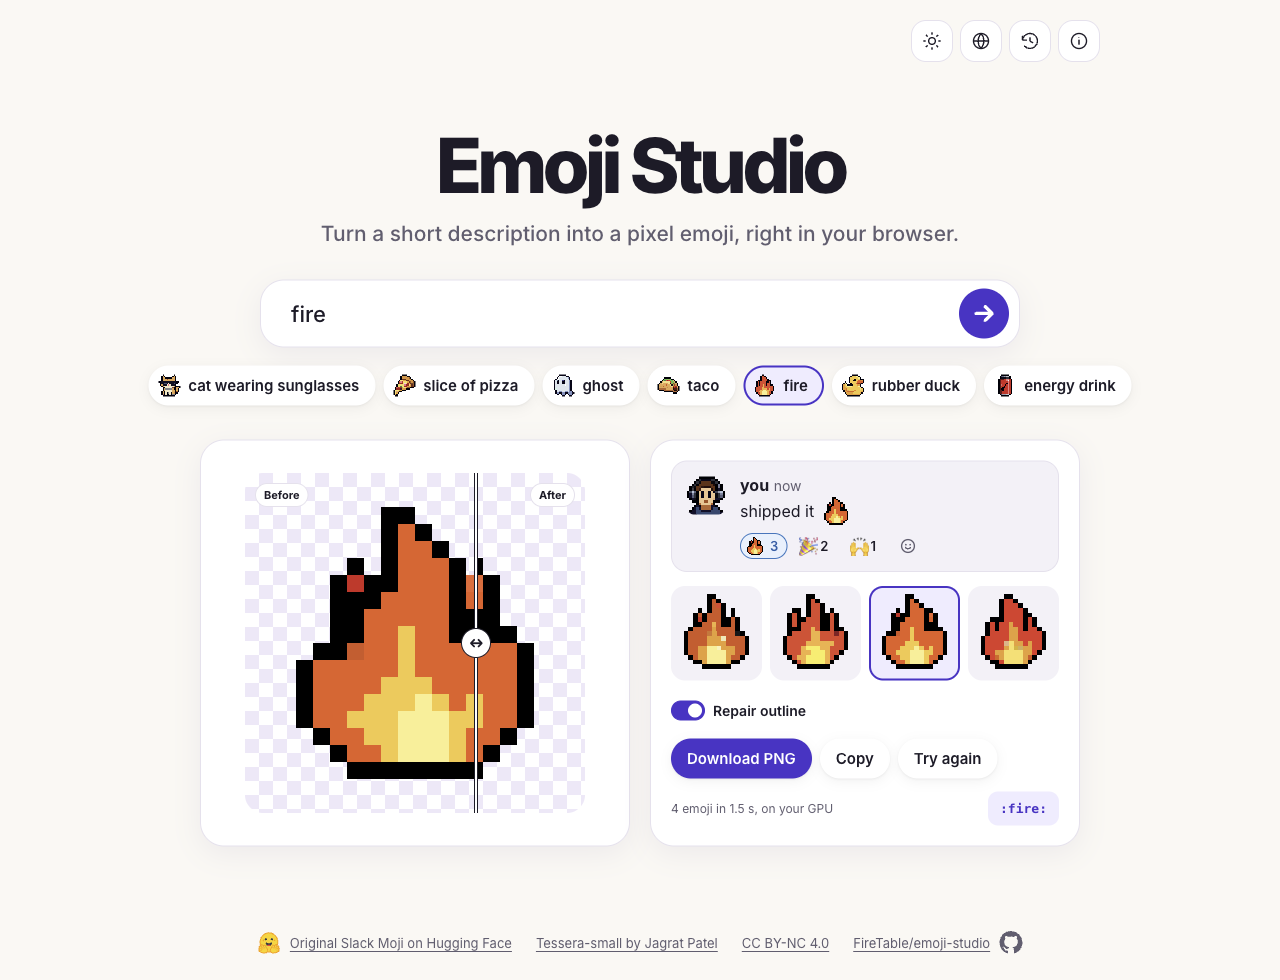
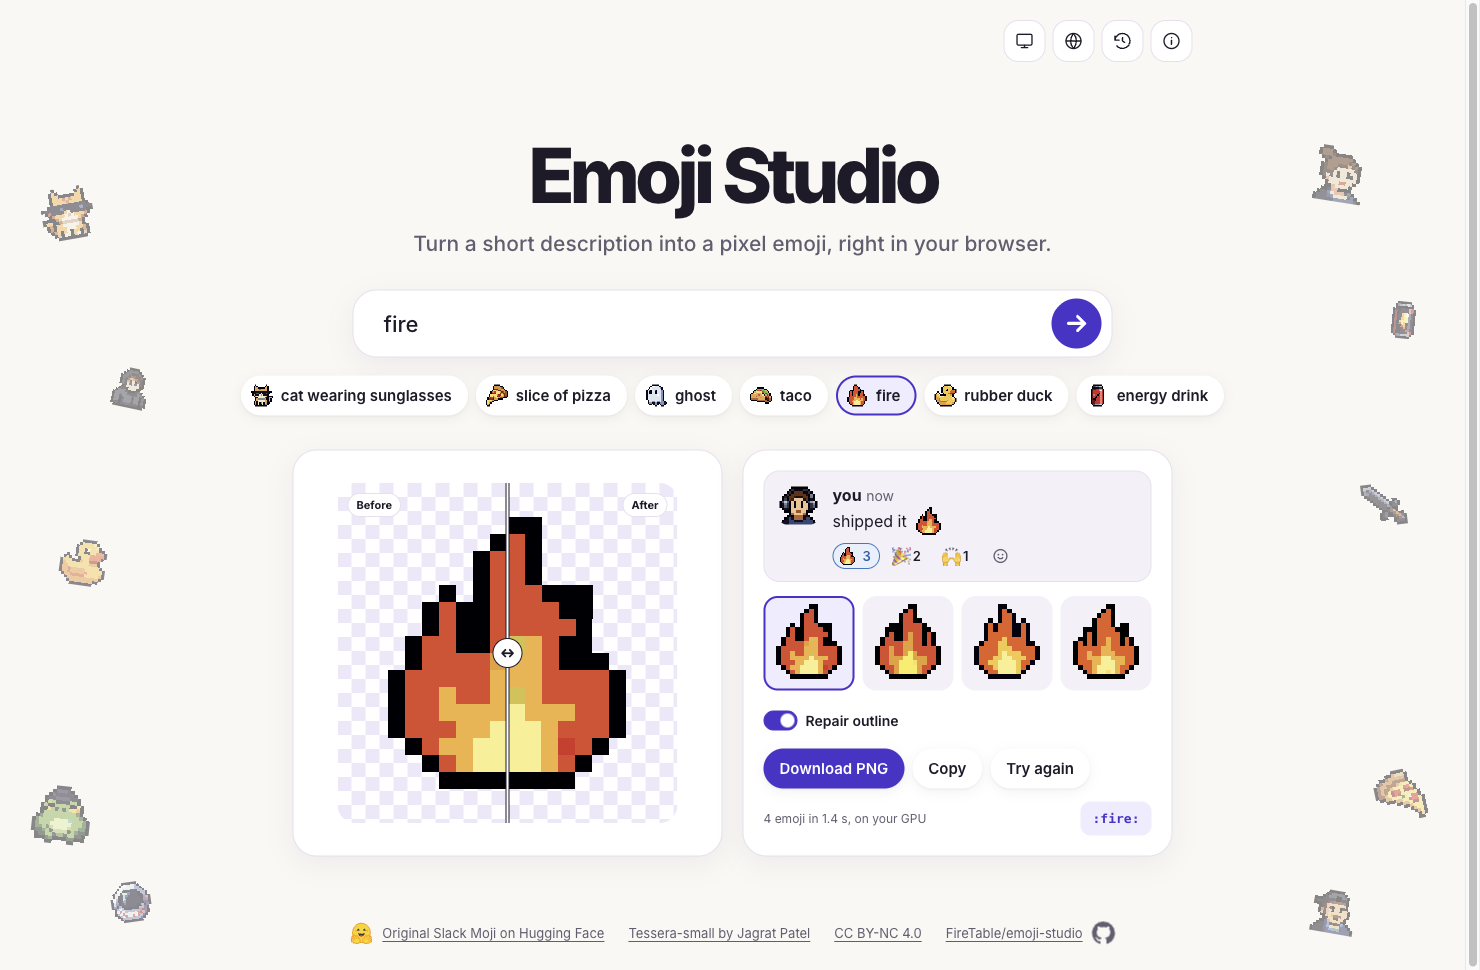
feat: improve studio overlays and crawler discovery

diff --git a/src/lib/i18n.ts b/src/lib/i18n.ts
@@ -67,13 +67,32 @@ export const LOCALES = {
     },
     aboutChanges: {
       title: "What Emoji Studio adds",
-      workflow: "Turn on outline repair to fill small gaps around the edge. Drag the preview slider to compare the original and repaired image. Use the history drawer to revisit, copy, or download earlier results.",
-      site: "FireTable redesigned the workspace, added light and dark appearances and English and Simplified Chinese, and moved the site and model downloads to Cloudflare.",
+      items: [
+        {
+          title: "Split model downloads",
+          detail: "We split the original Tessera-small and CLIP ONNX files into eight parts, each at most 16 MiB. The browser can fetch up to four parts at once from the CDN, reassemble the two models in memory, and reuse the cached parts on later visits. The first visit still downloads about 115 MB of weights.",
+        },
+        {
+          title: "Outline repair with a comparison slider",
+          detail: "Fill small gaps along the transparent outer edge while preserving the original pixels and enclosed transparent areas. Drag the slider to compare both versions. Copying or exporting uses the version selected by the repair switch.",
+        },
+        {
+          title: "Local generation history",
+          detail: "IndexedDB stores the prompt, time, and generated variants in this browser. Open the history drawer to preview an earlier result, switch variants, copy an image, or download a PNG while keeping your current work in place.",
+        },
+        {
+          title: "Workspace, appearance, and language",
+          detail: "The preview and editing controls sit side by side on desktop and stack on mobile. Choose English or Simplified Chinese and a light, dark, or system appearance.",
+        },
+        {
+          title: "Cloudflare hosting and startup recovery",
+          detail: "Cloudflare Pages serves the app, and the CDN serves the model files. After an interrupted startup, the next load in the same tab tries one part at a time and runs the model on the CPU to ease memory pressure.",
+        },
+      ],
     },
     aboutLocal: {
       title: "How generation runs on your device",
       device: "The browser runs Tessera-small and the CLIP text encoder on your GPU using WebGPU, with a WebAssembly CPU fallback. Your prompts, images, and IndexedDB history stay in this browser.",
-      cache: "The first visit downloads about 115 MB of model weights in parallel. Your browser reuses the cached files while they remain available.",
     },
     original: "Original Slack Moji on Hugging Face",
     model: "Tessera-small by Jagrat Patel",
@@ -145,13 +164,32 @@ export const LOCALES = {
     },
     aboutChanges: {
       title: "Emoji Studio 增加了什么",
-      workflow: "开启描边修复可以补上外轮廓的小缺口，拖动滑块就能比较修复前后。历史抽屉可以打开之前的结果，直接预览、复制或下载。",
-      site: "FireTable 重新设计了工作区，加入明暗模式和中英文界面，并把站点与模型下载迁移到了 Cloudflare。",
+      items: [
+        {
+          title: "ONNX 模型拆包与并行下载",
+          detail: "我们把原版的 Tessera-small 和 CLIP 两个 ONNX 文件拆成 8 个分片，每片最多 16 MiB。浏览器从 CDN 同时下载最多 4 片，在内存里拼回两个原始模型。首次仍需下载约 115 MB，之后打开时可复用浏览器里的分片缓存。",
+        },
+        {
+          title: "描边修复与拖拽对比",
+          detail: "开启后会填补靠透明背景的外轮廓小缺口，保留原图像素和内部镂空。拖动滑块可以比较修复前后，复制和导出则按当前的修复开关取图。",
+        },
+        {
+          title: "本地生成历史",
+          detail: "提示词、生成时间和各个版本保存在当前浏览器的 IndexedDB 中。可以在历史抽屉里打开旧记录、切换版本、复制图片或下载 PNG，同时保留工作区正在编辑的结果。",
+        },
+        {
+          title: "工作区、明暗模式与双语界面",
+          detail: "桌面把预览和操作并排放，手机则上下排列。界面支持简体中文和英文，外观可以选浅色、深色或跟随系统。",
+        },
+        {
+          title: "Cloudflare 部署与加载恢复",
+          detail: "网页由 Cloudflare Pages 提供，模型分片由 CDN 分发。模型加载中断后，同一标签页下次打开会尝试逐片下载并切换到 CPU，以减轻内存压力。",
+        },
+      ],
     },
     aboutLocal: {
       title: "生成怎样在本机运行",
       device: "浏览器用 WebGPU 在本机 GPU 上运行 Tessera-small 和 CLIP 文本编码器，也可以通过 WebAssembly 用 CPU 生成。提示词、生成结果和 IndexedDB 历史都留在当前浏览器。",
-      cache: "首次访问需要并行下载约 115 MB 的模型权重。只要模型缓存还在，之后打开就能复用。",
     },
     original: "Hugging Face 上的原版 Slack Moji",
     model: "Jagrat Patel 的 Tessera-small",

diff --git a/src/lib/Studio.svelte b/src/lib/Studio.svelte
@@ -7,6 +7,8 @@
   import Seo from "$lib/Seo.svelte";
   import StudioToolbar from "$lib/StudioToolbar.svelte";
   import HistoryDrawer from "$lib/HistoryDrawer.svelte";
+  import PixelDecorations from "$lib/PixelDecorations.svelte";
+  import { dismissOnBackdrop } from "$lib/dismissOnBackdrop";
 
   let { locale }: { locale: Locale } = $props();
   const words = $derived(LOCALES[locale]);
@@ -253,6 +255,10 @@
     void reloadHistory();
   }
 
+  function closeAbout() {
+    aboutDialog?.close();
+  }
+
   function applyTheme(value: string | null, persist = false) {
     theme = value === "light" || value === "dark" ? value : "system";
     document.querySelector<HTMLMetaElement>('meta[name="color-scheme"]')!.content =
@@ -340,6 +346,7 @@
 <Seo {locale} />
 
 <div class="site">
+<PixelDecorations />
 <StudioToolbar
   {locale}
   {theme}
@@ -485,10 +492,10 @@
 
 <HistoryDrawer bind:this={historyDrawer} {locale} entries={history} hasMore={historyHasMore} error={historyError} onMore={showOlder} />
 
-<dialog class="about-drawer" bind:this={aboutDialog} aria-labelledby="about-title">
+<dialog class="about-drawer" bind:this={aboutDialog} aria-labelledby="about-title" closedby="any" use:dismissOnBackdrop={closeAbout}>
   <div class="drawer-header">
     <h2 id="about-title">{words.about}</h2>
-    <button class="drawer-close" onclick={() => aboutDialog?.close()} aria-label={locale === "zh" ? "关闭" : "Close"}>
+    <button class="drawer-close" onclick={closeAbout} aria-label={locale === "zh" ? "关闭" : "Close"}>
       <svg viewBox="0 0 24 24" width="20" height="20" fill="none" stroke="currentColor" stroke-width="1.8" stroke-linecap="round" aria-hidden="true"><path d="m6 6 12 12M18 6 6 18"/></svg>
     </button>
   </div>
@@ -504,13 +511,18 @@
     </section>
     <section>
       <h3>{words.aboutChanges.title}</h3>
-      <p>{words.aboutChanges.workflow}</p>
-      <p>{words.aboutChanges.site}</p>
+      <ul class="about-changes">
+        {#each words.aboutChanges.items as item (item.title)}
+          <li>
+            <strong>{item.title}</strong>
+            <p>{item.detail}</p>
+          </li>
+        {/each}
+      </ul>
     </section>
     <section>
       <h3>{words.aboutLocal.title}</h3>
       <p>{words.aboutLocal.device}</p>
-      <p>{words.aboutLocal.cache}</p>
     </section>
   </div>
 </dialog>
@@ -717,7 +729,6 @@
   }
   @media (prefers-reduced-motion: reduce) {
     .spin { animation: none; }
-    .go, .bar i, .load-dialog, .load-dialog::backdrop, .about-drawer, .about-drawer::backdrop { transition: none; }
   }
   @keyframes spin {
     to {
@@ -828,6 +839,21 @@
     opacity: 1;
     transform: none;
   }
+  @supports (backdrop-filter: blur(1px)) {
+    .load-dialog {
+      background: linear-gradient(150deg, color-mix(in srgb, var(--surface) 95%, transparent), color-mix(in srgb, var(--surface) 86%, transparent));
+      border-color: color-mix(in srgb, var(--line) 65%, #fff);
+      backdrop-filter: blur(20px) saturate(135%);
+      box-shadow: 0 20px 80px #15102044, inset 0 1px 0 #fff6, inset 0 0 0 1px #fff1;
+    }
+    @media (prefers-reduced-transparency: reduce), (forced-colors: active) {
+      .load-dialog {
+        background: var(--surface);
+        backdrop-filter: none;
+        border-color: var(--line);
+      }
+    }
+  }
   .load-dialog:focus { outline: none; }
   .load-dialog::backdrop, .about-drawer::backdrop {
     opacity: 0;
@@ -883,12 +909,18 @@
   .drawer-body h3 { margin: 0 0 6px; color: var(--ink); font-size: 16px; }
   .drawer-body p { margin: 0; font-size: 14px; }
   .drawer-body p + p { margin-top: 9px; }
+  .about-changes { margin: 12px 0 0; padding-inline-start: 18px; }
+  .about-changes li + li { margin-top: 12px; }
+  .about-changes strong { display: block; margin-bottom: 2px; color: var(--ink); font-size: 14px; }
   .about-links { margin: 12px 0 0; padding: 0; list-style: none; font-size: 13px; }
   .about-links a { color: var(--accent); text-underline-offset: 3px; }
   @starting-style {
     .load-dialog[open] { opacity: 0; transform: translateY(8px) scale(.98); }
     .about-drawer[open] { opacity: 0; transform: translateX(24px); }
     .load-dialog[open]::backdrop, .about-drawer[open]::backdrop { opacity: 0; }
+  }
+  @media (prefers-reduced-motion: reduce) {
+    .go, .bar i, .load-dialog, .load-dialog::backdrop, .about-drawer, .about-drawer::backdrop { transition: none; }
   }
   @media (prefers-reduced-motion: no-preference) {
     .bob {

diff --git a/src/lib/PixelDecorations.svelte b/src/lib/PixelDecorations.svelte
@@ -1,0 +1,72 @@
+<script lang="ts">
+  const decorations = [
+    [
+      { file: '03', x: 35, y: 22, size: 52, angle: -10 },
+      { file: '52', x: 68, y: 40, size: 40, angle: 12 },
+      { file: '17', x: 43, y: 58, size: 46, angle: 8 },
+      { file: '40', x: 32, y: 84, size: 58, angle: 6 },
+      { file: '33', x: 68, y: 93, size: 40, angle: -8 },
+    ],
+    [
+      { file: '61', x: 35, y: 18, size: 55, angle: 9 },
+      { file: '88', x: 68, y: 33, size: 37, angle: 6 },
+      { file: '70', x: 58, y: 52, size: 43, angle: -7 },
+      { file: '22', x: 67, y: 82, size: 52, angle: -12 },
+      { file: '47', x: 32, y: 94, size: 43, angle: 10 },
+    ],
+  ]
+</script>
+
+<div class="decorations" aria-hidden="true">
+  {#each decorations as side}
+    <div class="rail">
+      {#each side as { file, x, y, size, angle } (file)}
+        <img
+          src="/confetti/{file}.png"
+          alt=""
+          width={size}
+          height={size}
+          loading="lazy"
+          decoding="async"
+          style:left={`${x}%`}
+          style:top={`${y}%`}
+          style:--angle={`${angle}deg`}
+        />
+      {/each}
+    </div>
+  {/each}
+</div>
+
+<style>
+  .decorations {
+    display: none;
+    position: fixed;
+    inset: 0;
+    z-index: 0;
+    overflow: hidden;
+    pointer-events: none;
+    opacity: 0.46;
+  }
+
+  .rail {
+    position: relative;
+    grid-area: 1 / 1;
+  }
+
+  .rail:last-child {
+    grid-column: 3;
+  }
+
+  img {
+    position: absolute;
+    transform: translate(-50%, -50%) rotate(var(--angle));
+    image-rendering: pixelated;
+  }
+
+  @media (min-width: 1280px) and (min-height: 560px) {
+    .decorations {
+      display: grid;
+      grid-template-columns: minmax(0, 1fr) 1080px minmax(0, 1fr);
+    }
+  }
+</style>

diff --git a/src/lib/Seo.svelte b/src/lib/Seo.svelte
@@ -4,6 +4,7 @@
   const origin = "https://emoji.firetable.tech";
   const image = origin + "/og.png";
   const name = "Emoji Studio";
+  const license = "https://creativecommons.org/licenses/by-nc/4.0/";
 
   let { locale }: { locale: Locale } = $props();
   let copy = $derived(LOCALES[locale]);
@@ -20,6 +21,9 @@
       inLanguage: copy.lang,
       applicationCategory: "MultimediaApplication",
       isAccessibleForFree: true,
+      license,
+      isBasedOn: "https://huggingface.co/spaces/cfahlgren1/slack-moji",
+      featureList: copy.aboutChanges.items.map(({ title }) => title),
     }).replaceAll("<", "\\u003c"),
   );
 </script>
@@ -31,6 +35,8 @@
   <link rel="alternate" hreflang="en" href={origin + LOCALES.en.path} />
   <link rel="alternate" hreflang="zh-CN" href={origin + LOCALES.zh.path} />
   <link rel="alternate" hreflang="x-default" href={origin + LOCALES.en.path} />
+  <link rel="alternate" type="text/markdown" href={url + "about.md"} />
+  <link rel="describedby" href={origin + "/llms.txt"} />
 
   <meta property="og:type" content="website" />
   <meta property="og:site_name" content={name} />

diff --git a/src/lib/dismissOnBackdrop.ts b/src/lib/dismissOnBackdrop.ts
@@ -1,0 +1,28 @@
+export function dismissOnBackdrop(dialog: HTMLDialogElement, close: () => void) {
+  if ("closedBy" in HTMLDialogElement.prototype) return;
+
+  function isBackdrop(event: MouseEvent) {
+    if (event.target !== dialog) return false;
+    const { left, right, top, bottom } = dialog.getBoundingClientRect();
+    return event.clientX < left || event.clientX > right || event.clientY < top || event.clientY > bottom;
+  }
+
+  let pressedOutside = false;
+  function pointerDown(event: PointerEvent) {
+    pressedOutside = isBackdrop(event);
+  }
+  function click(event: MouseEvent) {
+    const shouldClose = pressedOutside && isBackdrop(event);
+    pressedOutside = false;
+    if (shouldClose) close();
+  }
+
+  dialog.addEventListener("pointerdown", pointerDown);
+  dialog.addEventListener("click", click);
+  return {
+    destroy() {
+      dialog.removeEventListener("pointerdown", pointerDown);
+      dialog.removeEventListener("click", click);
+    },
+  };
+}

diff --git a/src/lib/HistoryDrawer.svelte b/src/lib/HistoryDrawer.svelte
@@ -1,5 +1,6 @@
 <script lang="ts">
   import { LOCALES, type Locale } from "./i18n";
+  import { dismissOnBackdrop } from "./dismissOnBackdrop";
   import type { HistoryEntry } from "./history";
 
   const GRID = 16;
@@ -126,6 +127,7 @@
   aria-labelledby="history-drawer-title"
   closedby="any"
   bind:this={drawer}
+  use:dismissOnBackdrop={close}
   oncancel={(event) => {
     event.preventDefault();
     void close();

diff --git a/static/about.md b/static/about.md
@@ -1,0 +1,17 @@
+# Emoji Studio
+
+Emoji Studio is a free, non-commercial web app that makes transparent 16×16 pixel emoji from text. Enter a short description to generate four variants, choose one, then copy the image or download a transparent PNG.
+
+## What Emoji Studio adds
+
+- **Model downloads.** The original Tessera-small and CLIP ONNX files are split into eight parts, each at most 16 MiB. The browser fetches up to four parts in parallel from the CDN and reassembles the two models in memory. The first visit downloads about 115 MB. Later visits reuse the cached parts while they remain available.
+- **Outline repair.** An optional switch fills small gaps in the outer outline. Drag the comparison slider to inspect the original and repaired images. Copy and export use the switch's current setting.
+- **Local history.** IndexedDB stores prompts, generation times, and variants in the browser. The history drawer can preview, copy, or download an earlier result while keeping the active workspace in place.
+- **Display settings.** The responsive workspace supports English, Simplified Chinese, and light, dark, or system appearance.
+- **Hosting and recovery.** Cloudflare Pages serves the UI. After an interrupted startup, the next load in the same tab tries one part at a time and uses the CPU to reduce memory pressure.
+
+## Local inference and credits
+
+The original [Slack Moji](https://huggingface.co/spaces/cfahlgren1/slack-moji) by Caleb Fahlgren brought Jagrat Patel’s [Tessera-small](https://huggingface.co/thejagstudio/tessera-small) to the browser. Emoji Studio uses the original model weights under [CC BY-NC 4.0](https://creativecommons.org/licenses/by-nc/4.0/). ONNX Runtime Web runs on the visitor’s GPU through WebGPU or on their CPU through WebAssembly. Prompts, generated images, and history stay in the browser.
+
+[Open Emoji Studio](https://emoji.firetable.tech/) · [简体中文](https://emoji.firetable.tech/zh/about.md) · [Source code](https://github.com/FireTable/emoji-studio)

diff --git a/static/zh/about.md b/static/zh/about.md
@@ -1,0 +1,17 @@
+# Emoji Studio
+
+Emoji Studio 是免费的非商业网页工具。输入一句描述，可以在浏览器中生成四张 16×16 的透明像素表情，再选一张复制或下载为透明 PNG。
+
+## Emoji Studio 增加了什么
+
+- **ONNX 模型拆包与并行下载。** 原版的 Tessera-small 和 CLIP 两个 ONNX 文件共拆成 8 个分片，每片最多 16 MiB。浏览器从 CDN 同时请求最多 4 片，再在内存里拼回两个模型。首次下载约 115 MB，之后可以复用浏览器缓存。
+- **可选描边修复。** 修补外轮廓的小缺口，可拖动滑块比较原图和修复后的效果。复制和导出按当前修复开关取图。
+- **本地历史。** 提示词、生成时间和各个版本保存在浏览器的 IndexedDB 中。历史抽屉支持预览、复制或下载旧结果，同时保留工作区当前结果。
+- **工作区和显示设置。** 界面适配桌面和手机，支持简体中文、英文以及浅色、深色和跟随系统。
+- **部署与加载恢复。** 网页部署在 Cloudflare Pages。模型加载中断后，同一个标签页下次打开会尝试逐片下载并改用 CPU，以减轻内存压力。
+
+## 本地推理与鸣谢
+
+原版 [Slack Moji](https://huggingface.co/spaces/cfahlgren1/slack-moji) 由 Caleb Fahlgren 创建，将 Jagrat Patel 的 [Tessera-small](https://huggingface.co/thejagstudio/tessera-small) 带到网页端。Emoji Studio 保留原始模型权重，适用 [CC BY-NC 4.0](https://creativecommons.org/licenses/by-nc/4.0/)。ONNX Runtime Web 通过 WebGPU 使用访客自己的 GPU，也可通过 WebAssembly 使用 CPU。提示词、生成结果和历史都留在浏览器中。
+
+[打开 Emoji Studio](https://emoji.firetable.tech/zh/) · [English](https://emoji.firetable.tech/about.md) · [源代码](https://github.com/FireTable/emoji-studio)

diff --git a/README.md b/README.md
@@ -38,6 +38,8 @@ Serve `build/` from an HTTPS static host. The live site uses Cloudflare Pages fo
 
 To mirror the models, use the ONNX files from [upstream revision `8e8aecc`](https://huggingface.co/spaces/cfahlgren1/slack-moji/tree/8e8aecc55e855a51bb952c892efbef647c0ce372/static/models). Split each in order into 16 MiB pieces named `tessera_w8.1.bin` through `tessera_w8.4.bin` and `clip_text_w8.1.bin` through `clip_text_w8.4.bin`. Set `MODEL_URL` to the directory holding the files. If serving them from another origin, allow the site to fetch them with CORS. Change the cache name when changing the model release.
 
+Both language routes are prerendered as HTML. The HTML head and HTTP `Link` headers point to the corresponding Markdown overview and the [`llms.txt` index](https://emoji.firetable.tech/llms.txt). Cloudflare Pages serves the Markdown response headers from [static/_headers](static/_headers).
+
 ## Acknowledgements
 
 - **Caleb Fahlgren** created [Slack Moji](https://huggingface.co/spaces/cfahlgren1/slack-moji), exported the ONNX models, and ported the sampler to JavaScript.

diff --git a/README-CN.md b/README-CN.md
@@ -36,6 +36,8 @@ npm run dev
 
 将 `build/` 放到支持 HTTPS 的静态站点。线上版使用 Cloudflare Pages 托管页面，通过 FireTable CDN 分发模型。下载地址和分片大小在 [src/lib/client.js](src/lib/client.js) 中配置。自行镜像权重时，见 [英文部署说明](README.md#deployment)。
 
+中英文页面在构建时预渲染成 HTML。网页头部和 HTTP `Link` 响应头都指向对应语言的 Markdown 介绍和 [`llms.txt` 索引](https://emoji.firetable.tech/llms.txt)。Cloudflare Pages 的响应头配置见 [static/_headers](static/_headers)。
+
 ## 鸣谢
 
 - **Caleb Fahlgren** 制作了 [Slack Moji](https://huggingface.co/spaces/cfahlgren1/slack-moji)，导出了 ONNX 模型，并移植了前端采样代码。
